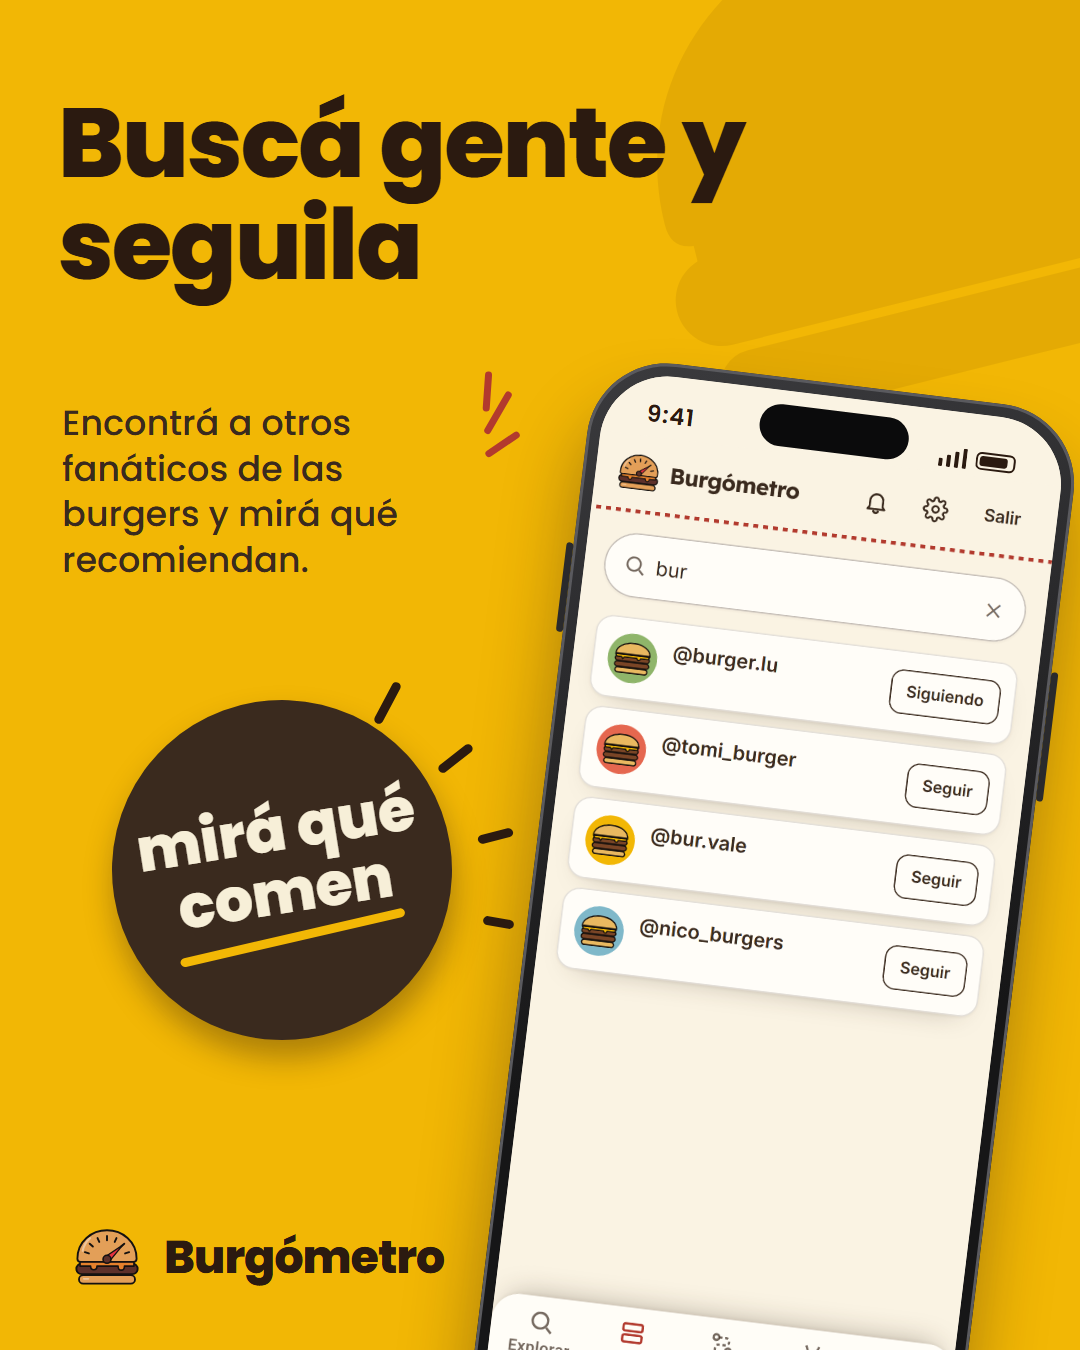
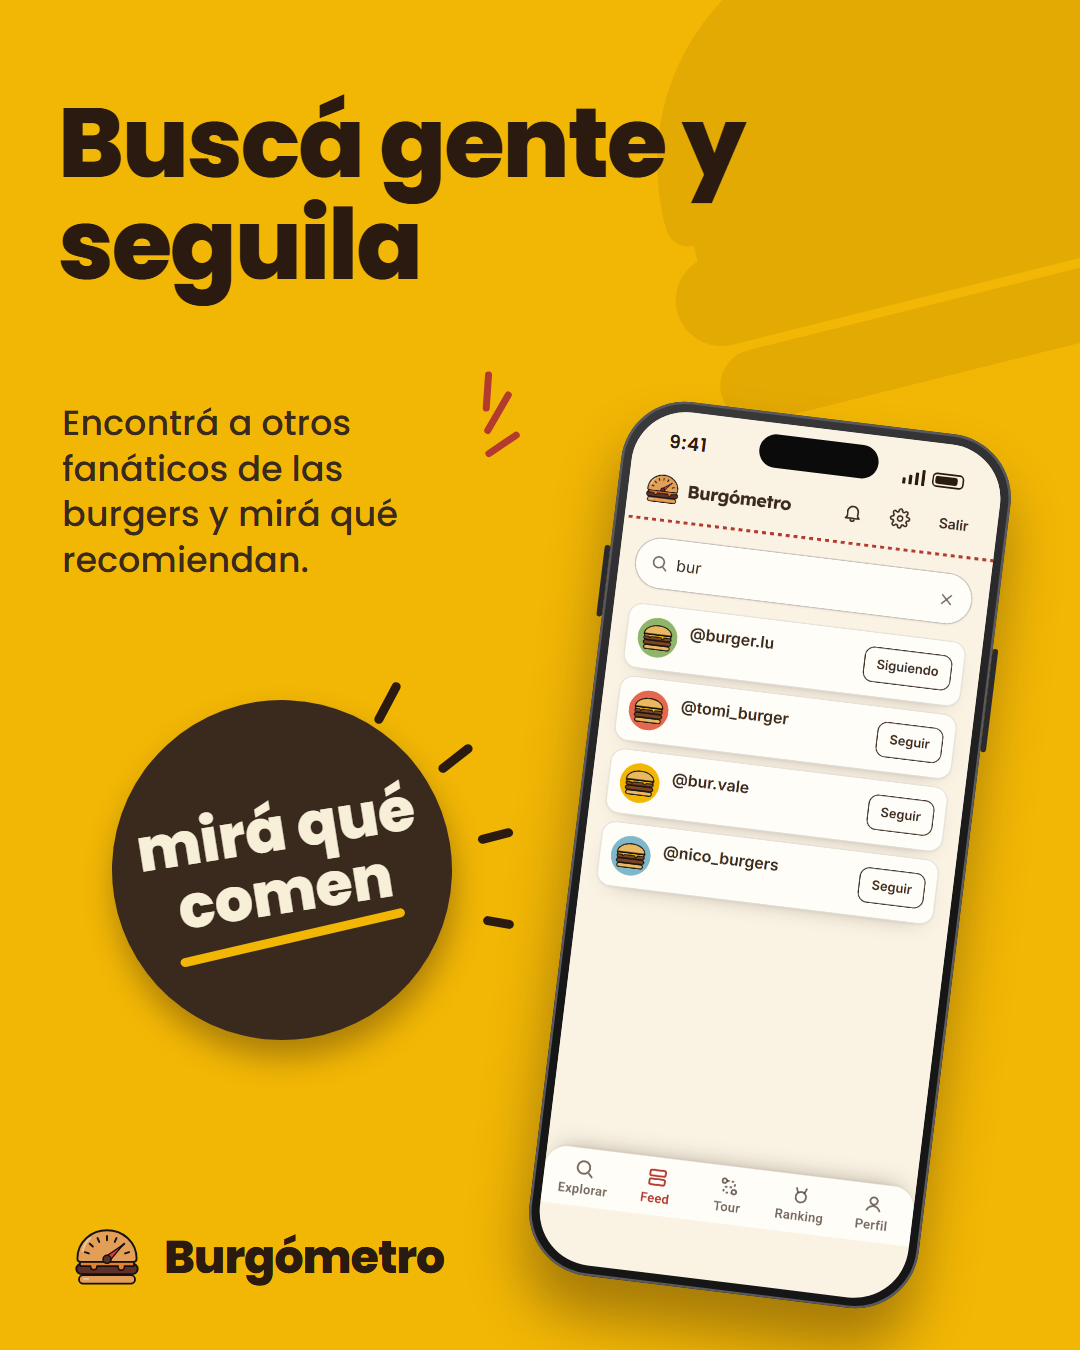
Post de Instagram: celu entero en las láminas y versión 9:16 para historias
En 4:5 el celu se cortaba abajo y a un costado. Ahora se dibuja a 490x1100 y se
escala dentro del lienzo, con margen. Se agrega la carpeta laminas-9x16 con las
mismas 8 láminas en 1080x1920, con lo importante dentro de la zona segura.

Changed region(s): [[0.3972, 0.2489, 1.0, 1.0], [0.5806, 0.84, 0.6417, 0.9022], [0.7333, 0.8711, 0.7639, 0.9022]]

diff --git a/docs/post-ig/README.md b/docs/post-ig/README.md
@@ -1,6 +1,6 @@
 # Carrusel de Instagram (#272)
 
-Ocho láminas de 1080×1350 (4:5) con las funciones principales de Burgómetro. Estilo C
+Ocho láminas en dos formatos: `laminas/` en 4:5 (1080×1350, el del carrusel del feed) y `laminas-9x16/` en 9:16 (1080×1920, para historias, con lo importante dentro de la zona segura: sin nada clave en los ~250 px de arriba y abajo). El celu se ve entero en las dos con las funciones principales de Burgómetro. Estilo C
 (amarillo tipográfico), con la plantilla que armó Juan.
 
 | Lámina | Archivo | Qué muestra |
